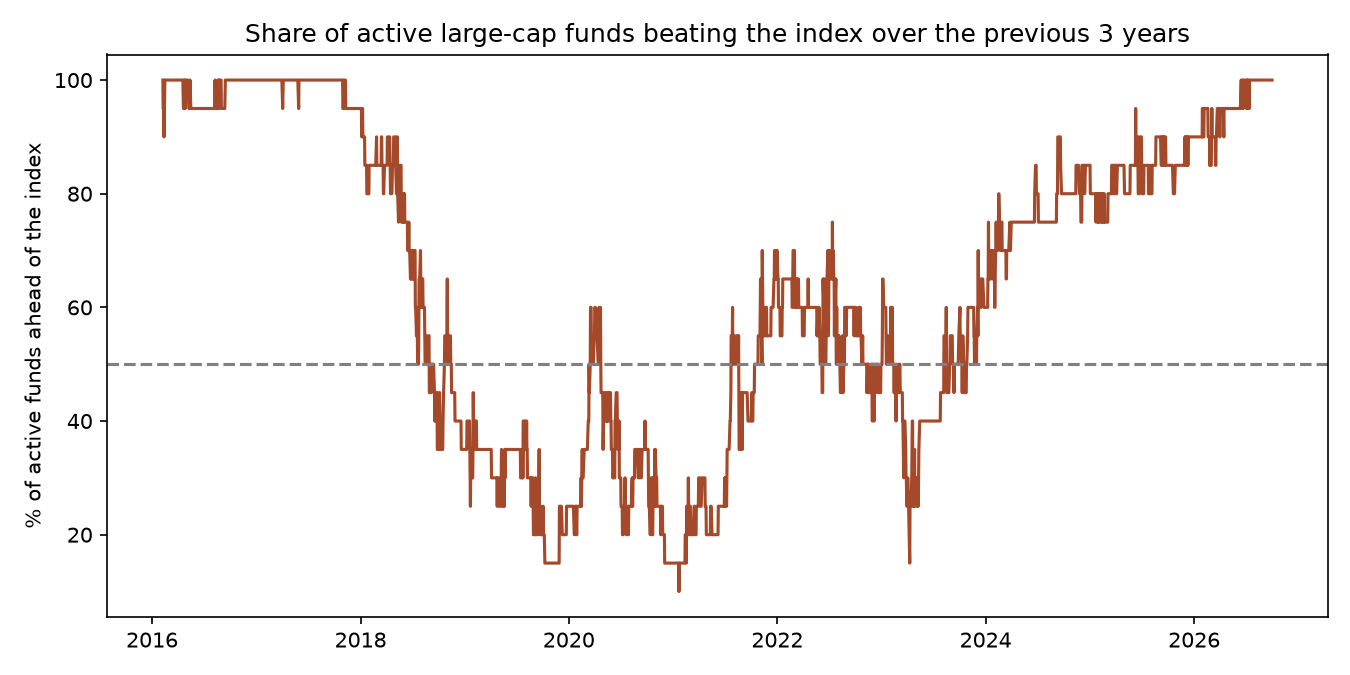
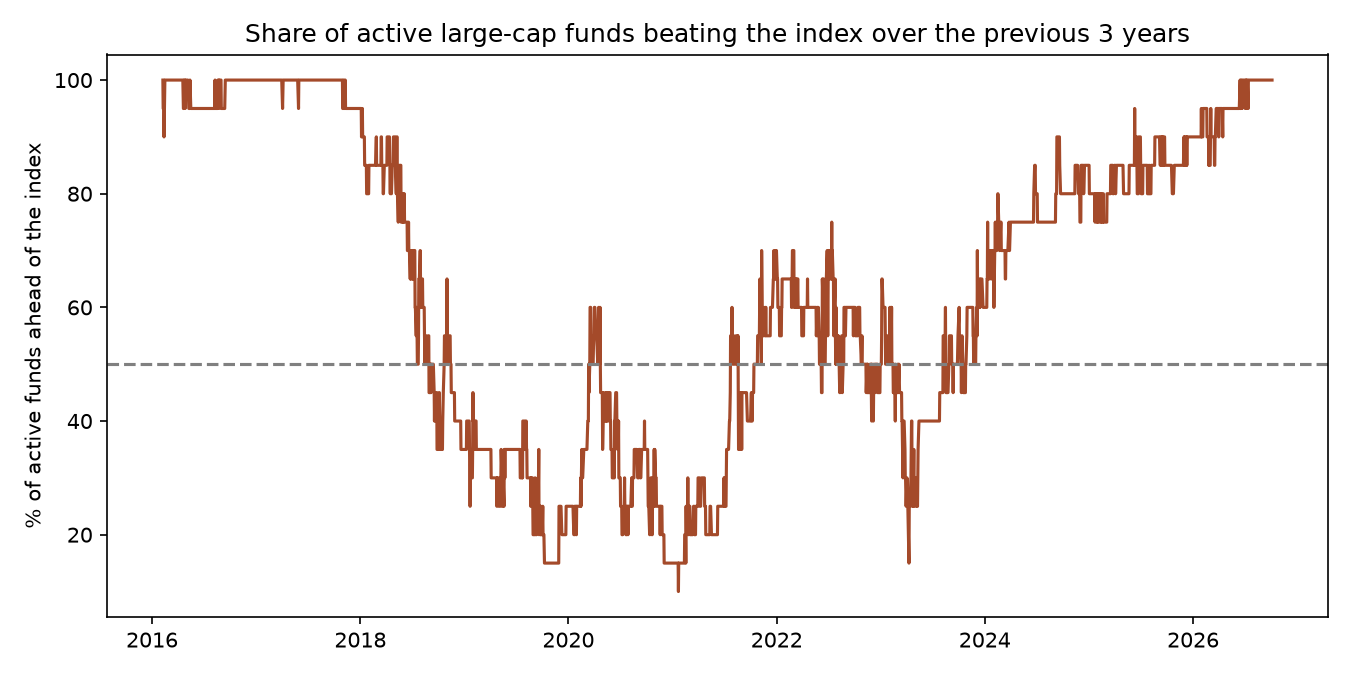
Data refresh: NAVs to 2026-10-06

diff --git a/README.md b/README.md
@@ -5,7 +5,7 @@
 **Short answer:** Over 2013–2026, yes: 19 of 20 surviving active large-cap funds beat the UTI Nifty 50 Index Fund. But it is **streaky**, and the full-period number flatters active funds because of **survivorship bias**. Active funds won almost every 3-year window up to 2018, then most of them *lost* to the index from 2019 to 2021, and they have been winning again since 2024.
 
 <!-- latest -->
-**Latest data: 01 Oct 2026.** Over 13.7 years, the Nifty 50 index fund returned 11.05% a year; 19 of 20 surviving active funds beat it. Right now, 100% of active funds are ahead of the index over the past 3 years.
+**Latest data: 05 Oct 2026.** Over 13.7 years, the Nifty 50 index fund returned 11.09% a year; 19 of 20 surviving active funds beat it. Right now, 100% of active funds are ahead of the index over the past 3 years.
 <!-- /latest -->
 
 ## Data
